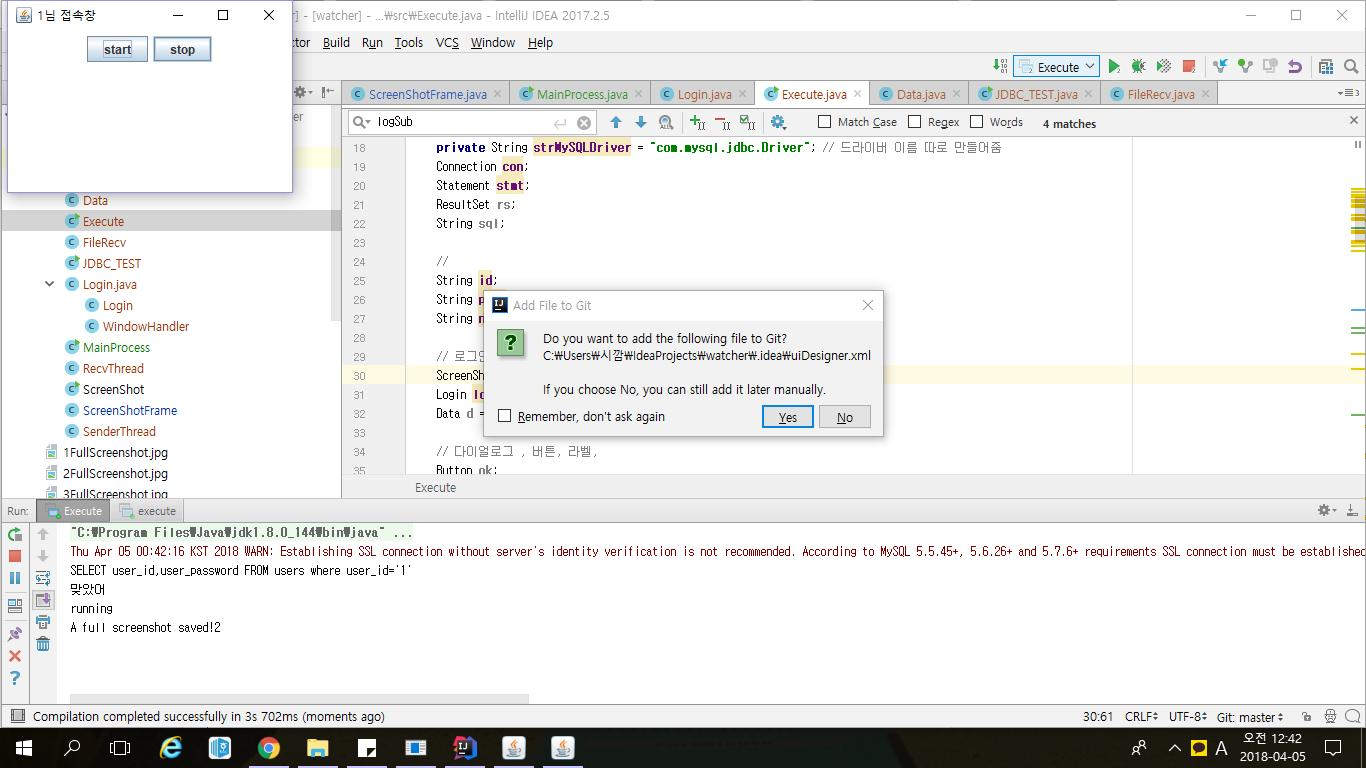
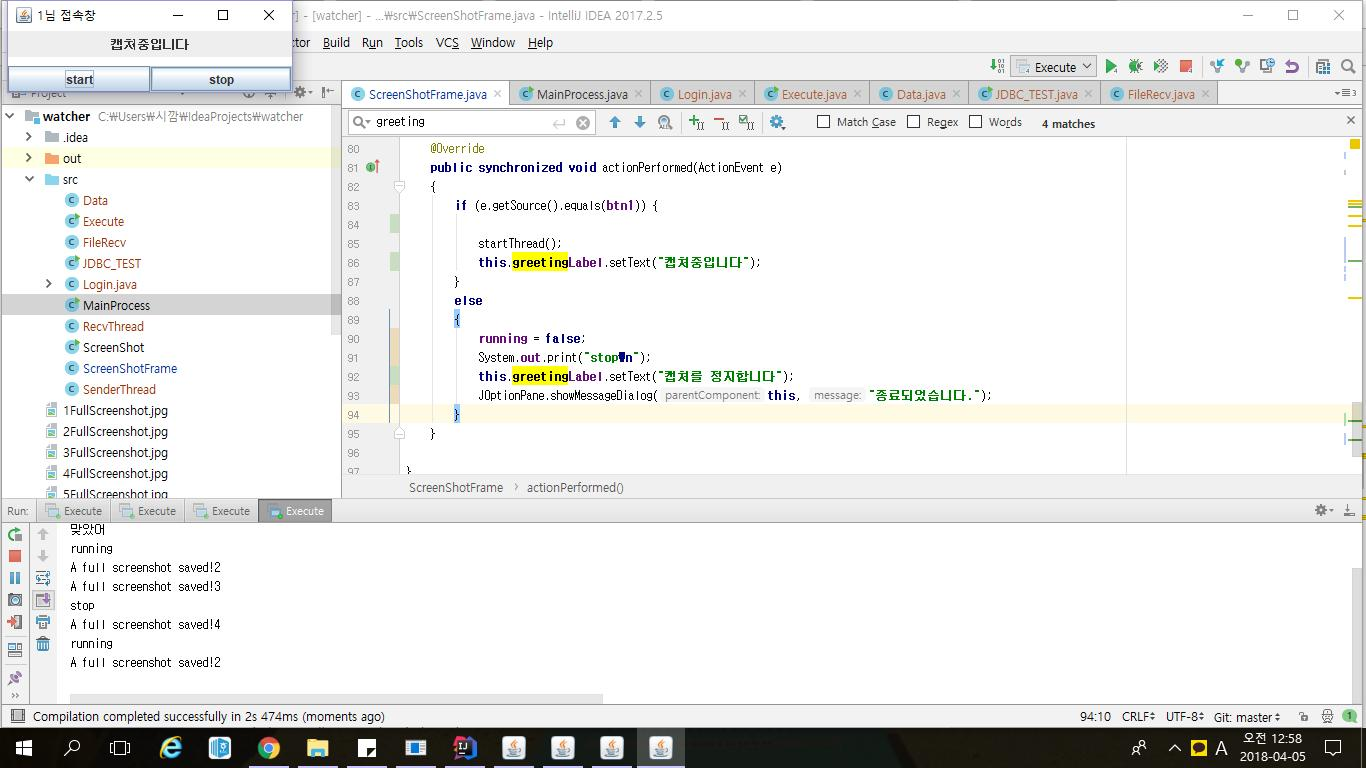
login 기능 + labeling

diff --git a/src/ScreenShotFrame.java b/src/ScreenShotFrame.java
@@ -1,14 +1,9 @@
-import java.awt.FlowLayout;
-import java.awt.Frame;
+import java.awt.*;
 import java.awt.event.ActionEvent;
 import java.awt.event.ActionListener;
 
 import javax.swing.*;
 
-import java.awt.AWTException;
-import java.awt.Rectangle;
-import java.awt.Robot;
-import java.awt.Toolkit;
 import java.awt.image.BufferedImage;
 import java.io.File;
 import java.io.IOException;
@@ -30,12 +25,19 @@ public class ScreenShotFrame extends Frame implements ActionListener
     {
 
         super("캡처프로그램");
-        this.setLayout(new FlowLayout());
+        this.setLayout(new BorderLayout());
+        JPanel p1 = new JPanel();
+        p1.setLayout(new GridLayout(1,2));
+        JPanel p2 = new JPanel();
+        p2.setLayout(new FlowLayout());
+        p1.add(btn1);
+        p1.add(btn2);
+        p2.add(greetingLabel);
 
-        this.add(btn1);
-        this.add(btn2);
+        add(p1, BorderLayout.SOUTH);
+        add(p2, BorderLayout.NORTH);
 
-        this.setSize(300, 200);
+        this.setSize(300, 100);
         this.setVisible(false);
 
         btn1.addActionListener(this);
@@ -79,13 +81,16 @@ public class ScreenShotFrame extends Frame implements ActionListener
     public synchronized void actionPerformed(ActionEvent e)
     {
         if (e.getSource().equals(btn1)) {
+
             startThread();
+            this.greetingLabel.setText("캡처중입니다");
         }
         else
         {
-                running = false;
-                System.out.print("stop\n");
-                JOptionPane.showMessageDialog(this, "종료되었습니다.");
+            running = false;
+            System.out.print("stop\n");
+            this.greetingLabel.setText("캡처를 정지합니다");
+            JOptionPane.showMessageDialog(this, "종료되었습니다.");
         }
     }
 
